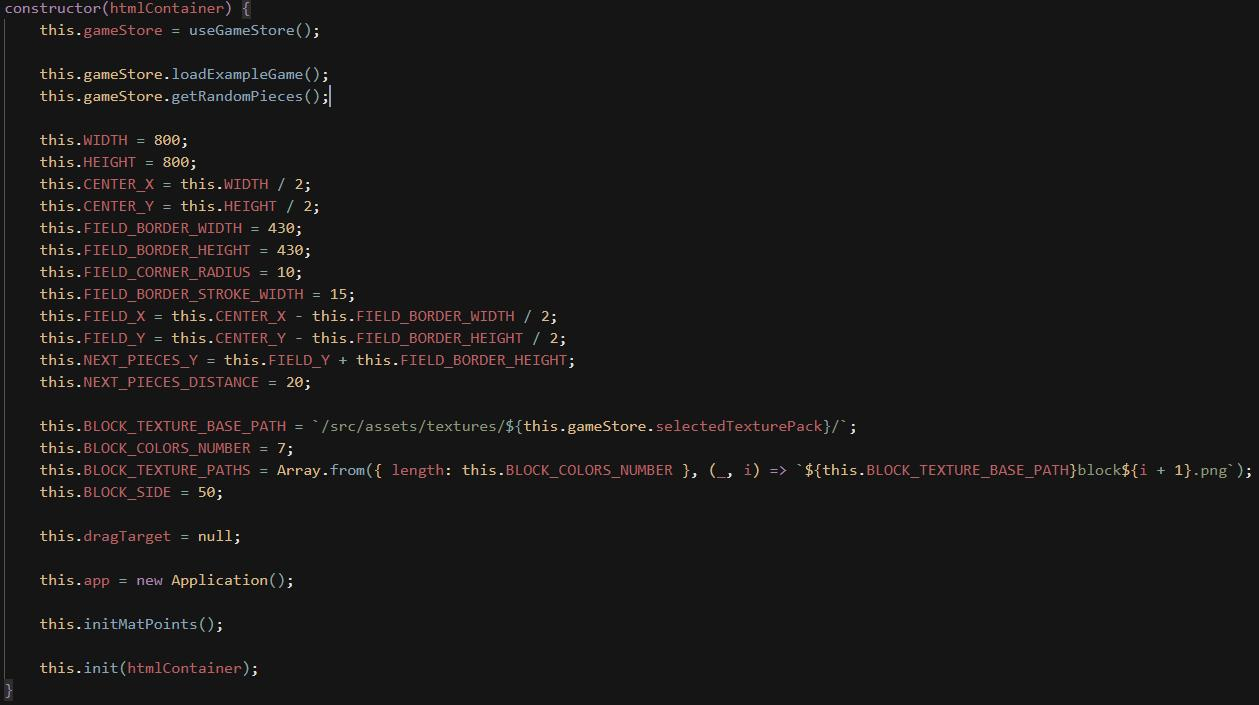
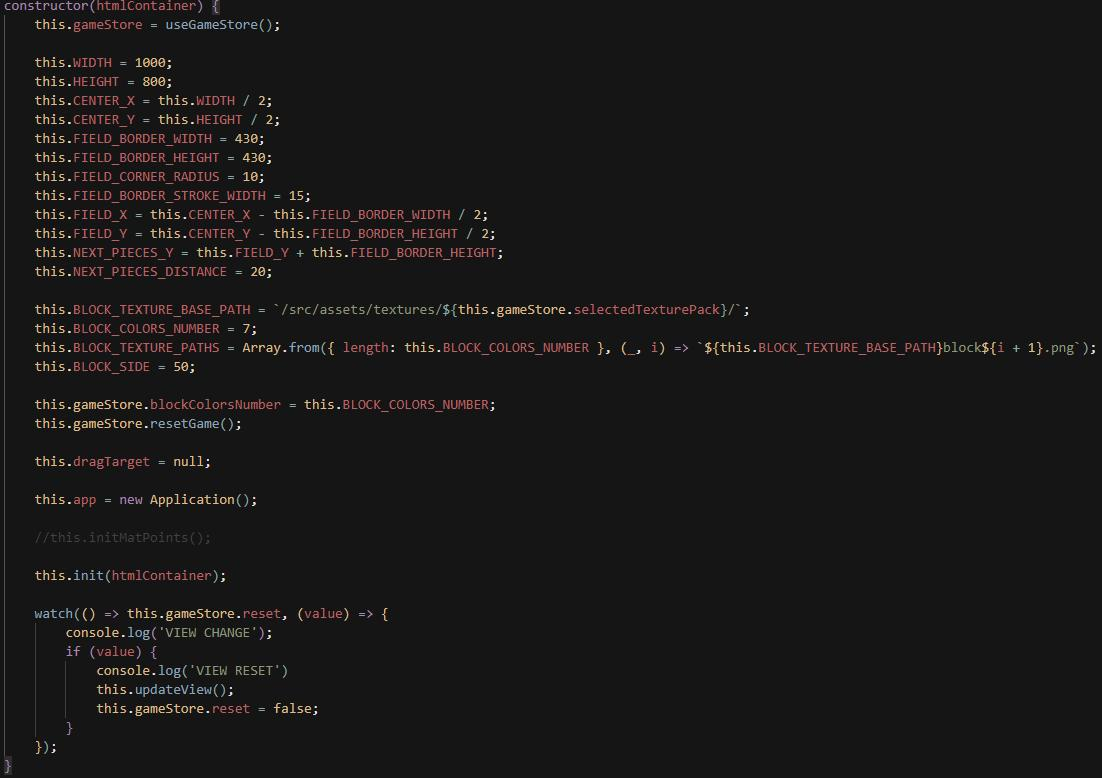
DOCS update

diff --git a/src/scripts/graphics.js b/src/scripts/graphics.js
@@ -136,12 +136,7 @@ export class PixiGame {
         const pointsTextStyle = new TextStyle({
             fontFamily: 'Arial',
             fontSize: 36,
-            fill: 0xffffff,
-            // stroke: {
-            //     color: 0xde3249,
-            //     width: 4,
-            //     join: 'round'
-            // }
+            fill: 0xffffff
         });
         const pointsText = new Text({ text: `Points: ${this.gameStore.points}`, style: pointsTextStyle });
         pointsText.x = 5;

diff --git a/docs/DOCS.md b/docs/DOCS.md
@@ -15,12 +15,12 @@ Questo documento fornisce una panoramica tecnica e stilista del progetto "Bust-a
 ## Feature programmate
 - [x] Campo di gioco
 - [ ] Menù principale
-- [ ] AI generazione blocchi
-- [ ] Multiplayer
+- [x] AI generazione blocchi
+- [x] Multiplayer
 - [ ] Lista Amici
-- [ ] Partite private
+- [x] Partite private
 - [ ] Inviti alle partite
-- [ ] Pelli per i blocchi
+- [x] Pelli per i blocchi
 - [ ] Pagina about
 
 ## Struttura del codice
@@ -74,7 +74,15 @@ Al contrario di altre tipologie di giochi simile (*es. Tetris*), i blocchi di (*
 
   ![Navbar component code](./images/Navbar.png "Navbar component code")
 
-- Inizializzazione delle variabili per il render grafico, calcoliamo la posizione del campo e impostiamo la grandezza dei blocchi ([Graphics.js](../src/scripts/graphics.js))
+- Le texture assegnate ai blocchi sono totalmente originali e richiamano le ambientazioni degli iconici film di Bud Spencer e Terence Hill, ma sono in grado di essere cambiate con altre tramite un apposito menù.
+
+[Inserire immagine]
+
+- Creazione di un modal (una finestra pop-up) per permettere il login e la registrazione al sito, con input dei dati e bottoni per scegliere l'azione ([Navbar.vue](../src/components/Navbar.vue))
+
+  ![Login modal](./images/loginModal.jpeg "Login modal")
+
+- Inizializzazione delle variabili per il render grafico, calcoliamo la posizione del campo, impostiamo la grandezza dei blocchi e il numero di texture disponibili, infine inizializziamo l'app e impostiamo un watcher per permettere il reset del gioco ([Graphics.js](../src/scripts/graphics.js))
 
   ![Game field constructor](./images/Graphics_constructor.jpeg "Game field constructor")
 
@@ -82,13 +90,17 @@ Al contrario di altre tipologie di giochi simile (*es. Tetris*), i blocchi di (*
 
   ![Load block textures function](./images/loadBlockTextures.jpeg "Load block textures function")
 
-- Metodo per renderizzare il campo di gioco, scorre la matrice del campo, crea uno sprite per ogni blocco e imposta le coordinate ([Graphics.js](../src/scripts/graphics.js))
+- Metodo per renderizzare il campo di gioco, dispone di due modalità: una usa il campo del giocatore, l'altra quello dell'avversario. Scorre la matrice del campo, crea uno sprite per ogni blocco, gli assegna una texture e imposta le coordinate ([Graphics.js](../src/scripts/graphics.js))
 
-  ![Get field graphics function](./images/getFieldGraphic.jpeg "Get field graphics function")
+  ![Get field graphics function](./images/getFieldContainer.jpeg "Get field graphics function")
 
 - Metodo che viene eseguito ogni frame, fa il render dell'intero gioco, imposta i gli eventi e aggiunge il titolo, il campo di gioco e i pezzi successivi ([Graphics.js](../src/scripts/graphics.js))
 
   ![Graphics init function](./images/graphics_init.jpeg "Graphics init function")
+
+- In più il metodo aggiunge anche il contatore dei punti, il bottone di reset e due watcher per aggiornare i punti e il campo dell'avversario ([Graphics.js](../src/scripts/graphics.js))
+
+  ![Graphics init function 2](./images/graphics_init2.jpeg "Graphics init function 2")
 
 - Inazializzazione delle variabili necessarie al render dei pezzi successivi, creiamo l'oggetto, i suoi eventi e gli assegnamo una texture casuale ([Graphics.js](../src/scripts/graphics.js))
 
@@ -97,6 +109,14 @@ Al contrario di altre tipologie di giochi simile (*es. Tetris*), i blocchi di (*
 - Assegnazione delle coordinate al pezzo appena creato e aggiunta al container
 
   ![Draw next pieces 2](./images/drawNextPieces2.jpeg "Draw next pieces 2")
+
+- Metodi per aggiornare le view del giocatore e del suo avversario: rimuovono i container, li aggiornano e li riposizionano nell'app ([Graphics.js](../src/scripts/graphics.js))
+
+  ![Update views methods](./images/updateViews.jpeg "Update views methods")
+
+- Metodi per connettersi e disconnettersi al server web socket per permettere la funzionalità multigiocatore, con appropriati metodi di callback per gestire i vari esiti ([Graphics.js](../src/scripts/multiplayer.js))
+
+  ![Connect and disconnect WSS](./images/connectWSS.jpeg "Connect and disconnect WSS")
 
 - Creazione della matrice in grado di visualizzare il campo di gioco tramite metodi in graphics.js (come getFieldGraphics()). Questa variabile ci aiuterà a capire quali spazi nella board sono occupati e quali tipi di texture utilizzano. Ogni numero diverso da 0 indica una texture diversa.
   
@@ -113,3 +133,23 @@ Al contrario di altre tipologie di giochi simile (*es. Tetris*), i blocchi di (*
 - Funzione che fornisce al giocatore 3 pezzi casuali tra quelli all'interno della variabile "blocks" con una texture casuale. Questi pezzi saranno forniti al giocatore e potrà inserirli nel campo di gioco a suo piacimento.
   
   ![Variables](./images/getRandomPieces.jpg "Variables")
+
+- Oltre alla funzione sopra citata, il gioco è anche in grado di generare pezzi che si adattano al campo di gioco corrente, permettendo al giocatore di poter sempre avanzare all'interno della partita senza che esso rimanga bloccato. La funzione darà sempre la priorità ai blocchi migliori, poi a quelli in grado di entrare nel campo e, se non è stato in grado di trovarne almeno 3, genererà dei pezzi casualmente.
+
+[Inserire immagine generateRandomPiecesThatFit]
+
+- Funzione che controlla se un pezzo è in grado o no di entrare nel campo di gioco, utile per controlli interni e calcolare quali sono i pezzi migliori da dare al giocatore.
+
+[Inserire immagine FitsInField]
+
+- Questa funzione invece, è in grado di verificare se un determinato blocco è un "miglior pezzo", ovvero è sia in grado di entrare nel campo corrente, sia è capace di eliminare una riga oppure una colonna se piazzato in una determinata maniera.
+
+[Inserire immagine isBestPiece]
+
+- Il metodo clearLines invece, ha una duplice funzione: O è in grado di rilevare se il giocarore ha completato una riga o una colonna per eliminarla, o può essere utilizzato per testare se, con una determinata disposizione del campo che gli verrà fornita in input, si è completata una riga o una colonna. Utile per capire quali sono i blocchi migliori da fornire al giocatore.
+
+[Inserire immagine clearLines]
+
+- Funzione che, cliccando un apposito bottone posto in alto a sinistra della schermata di gioco, è in grado di resettare lo stato della partita e i punti ottenuti dal giocatore finora, generando nuovi pezzi da dare al giocatore.
+
+[Inserire immagine resetGame]
